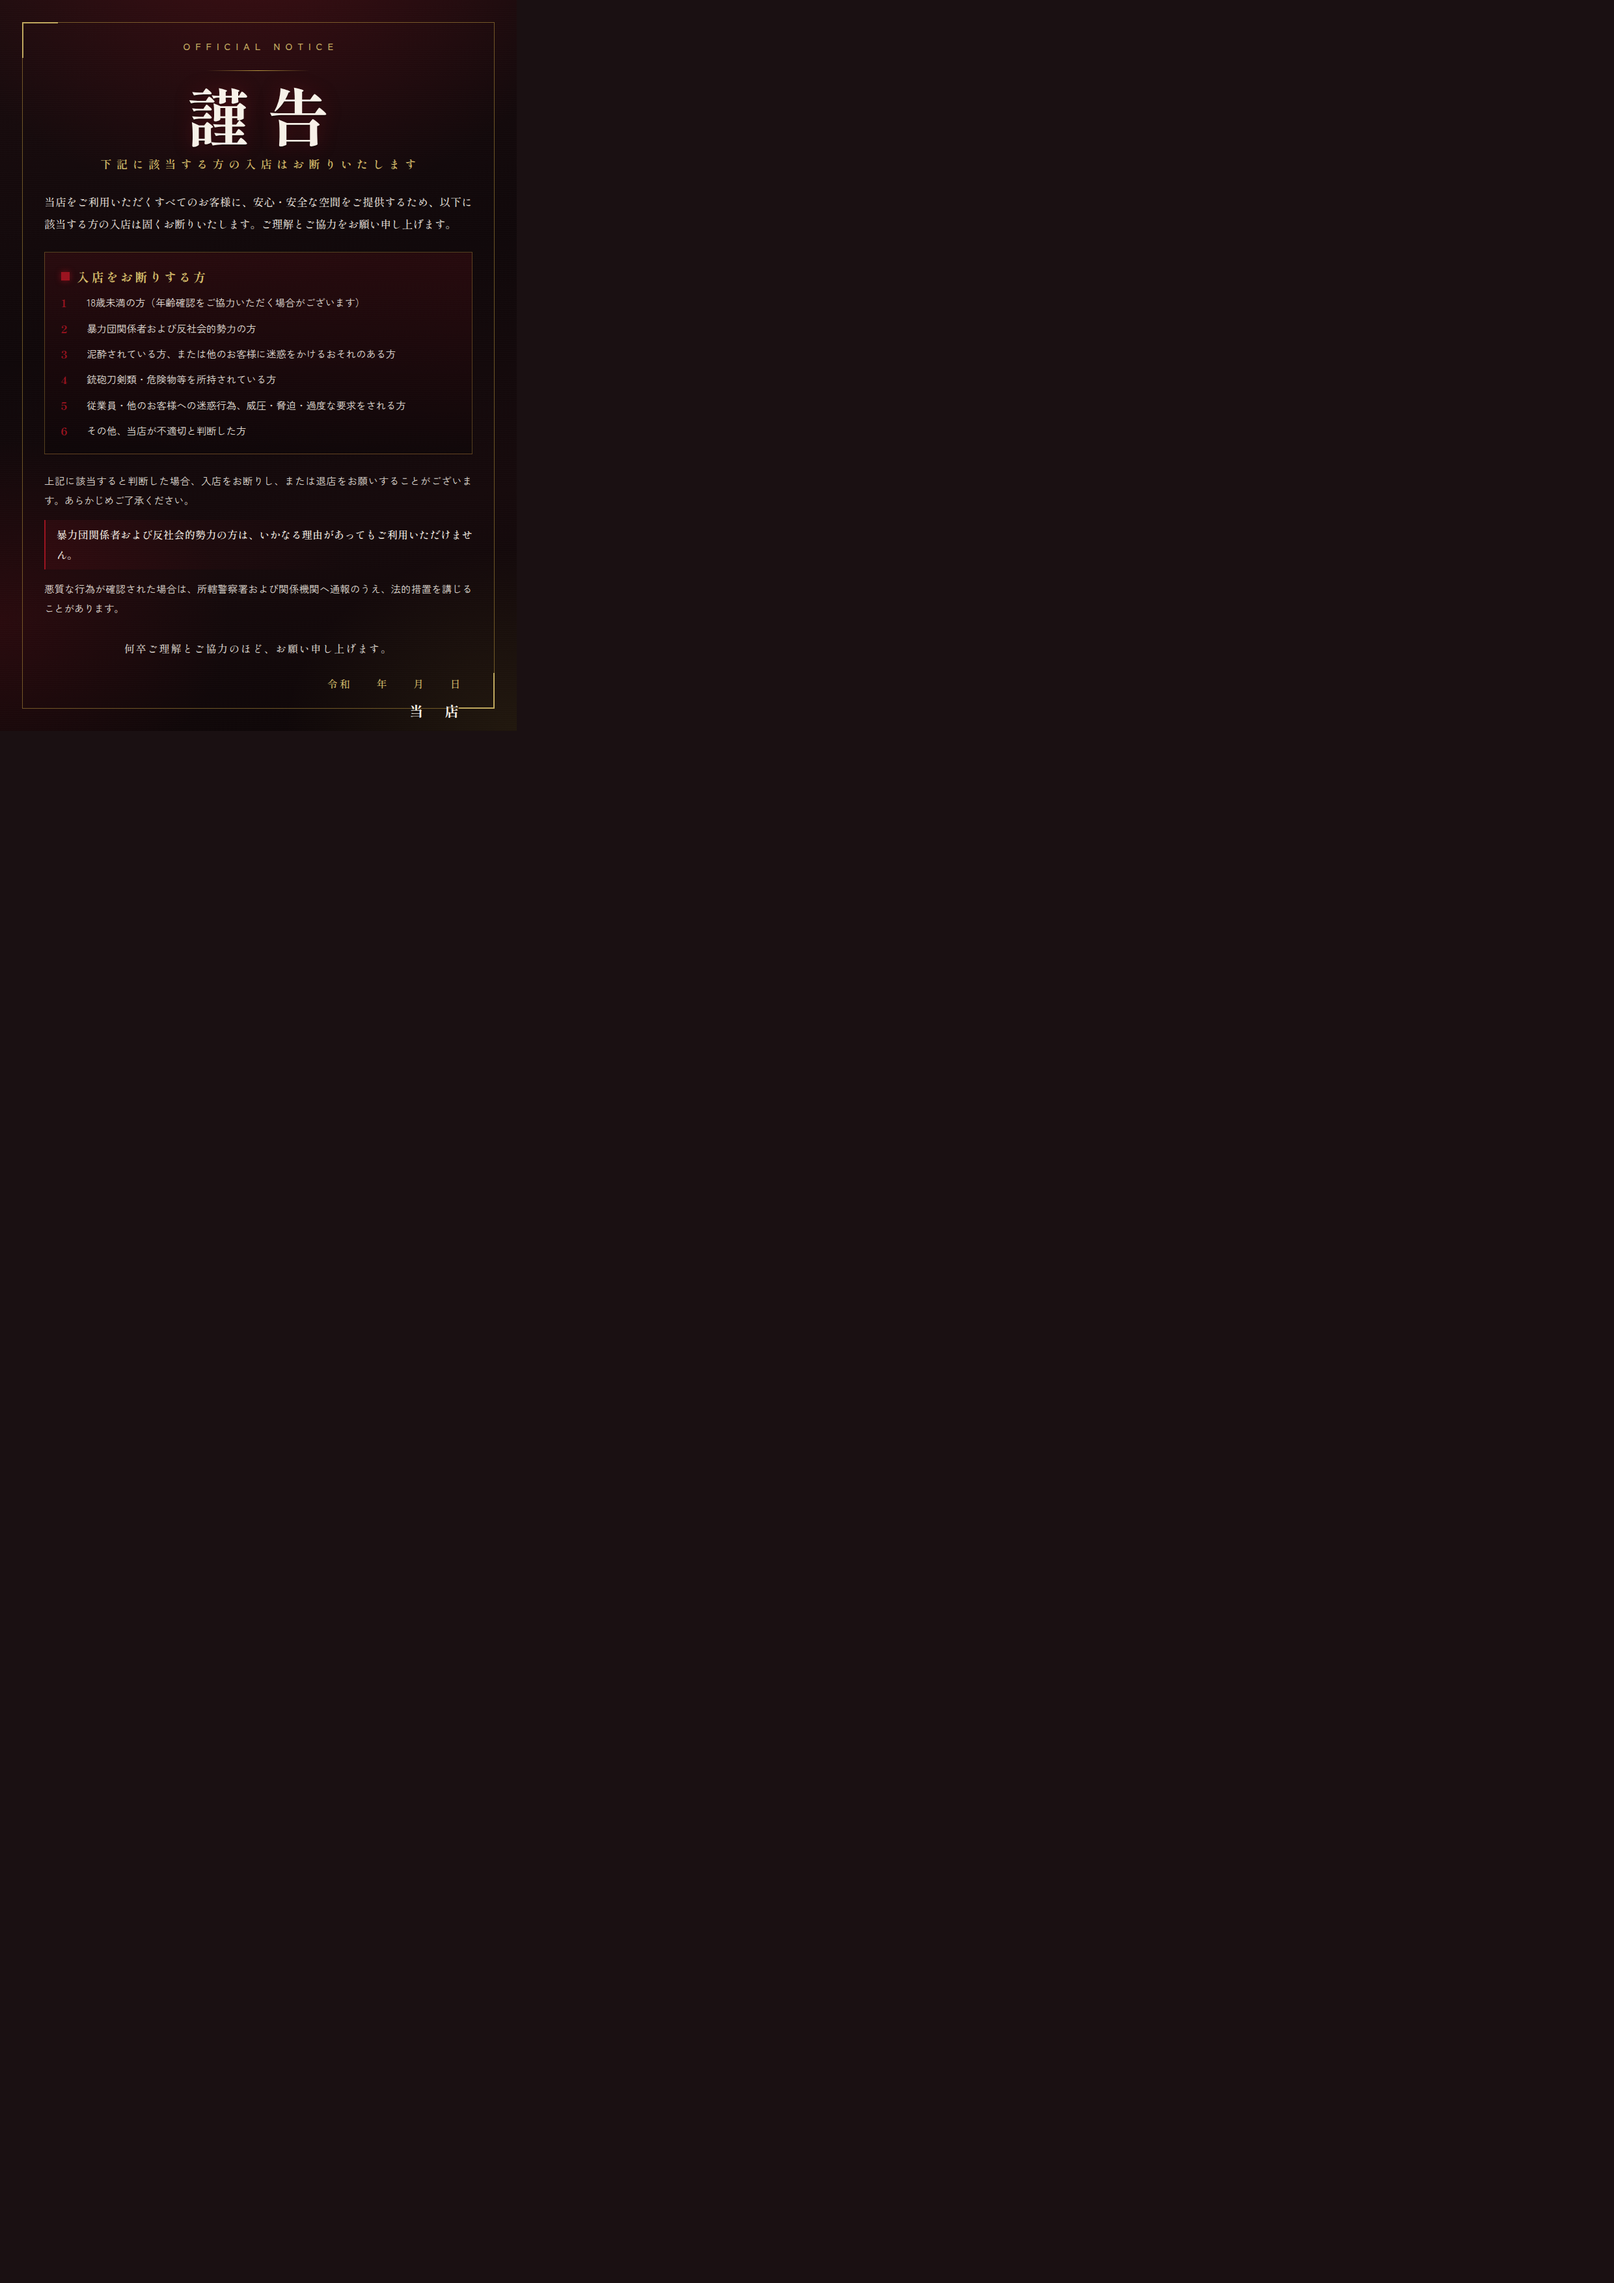
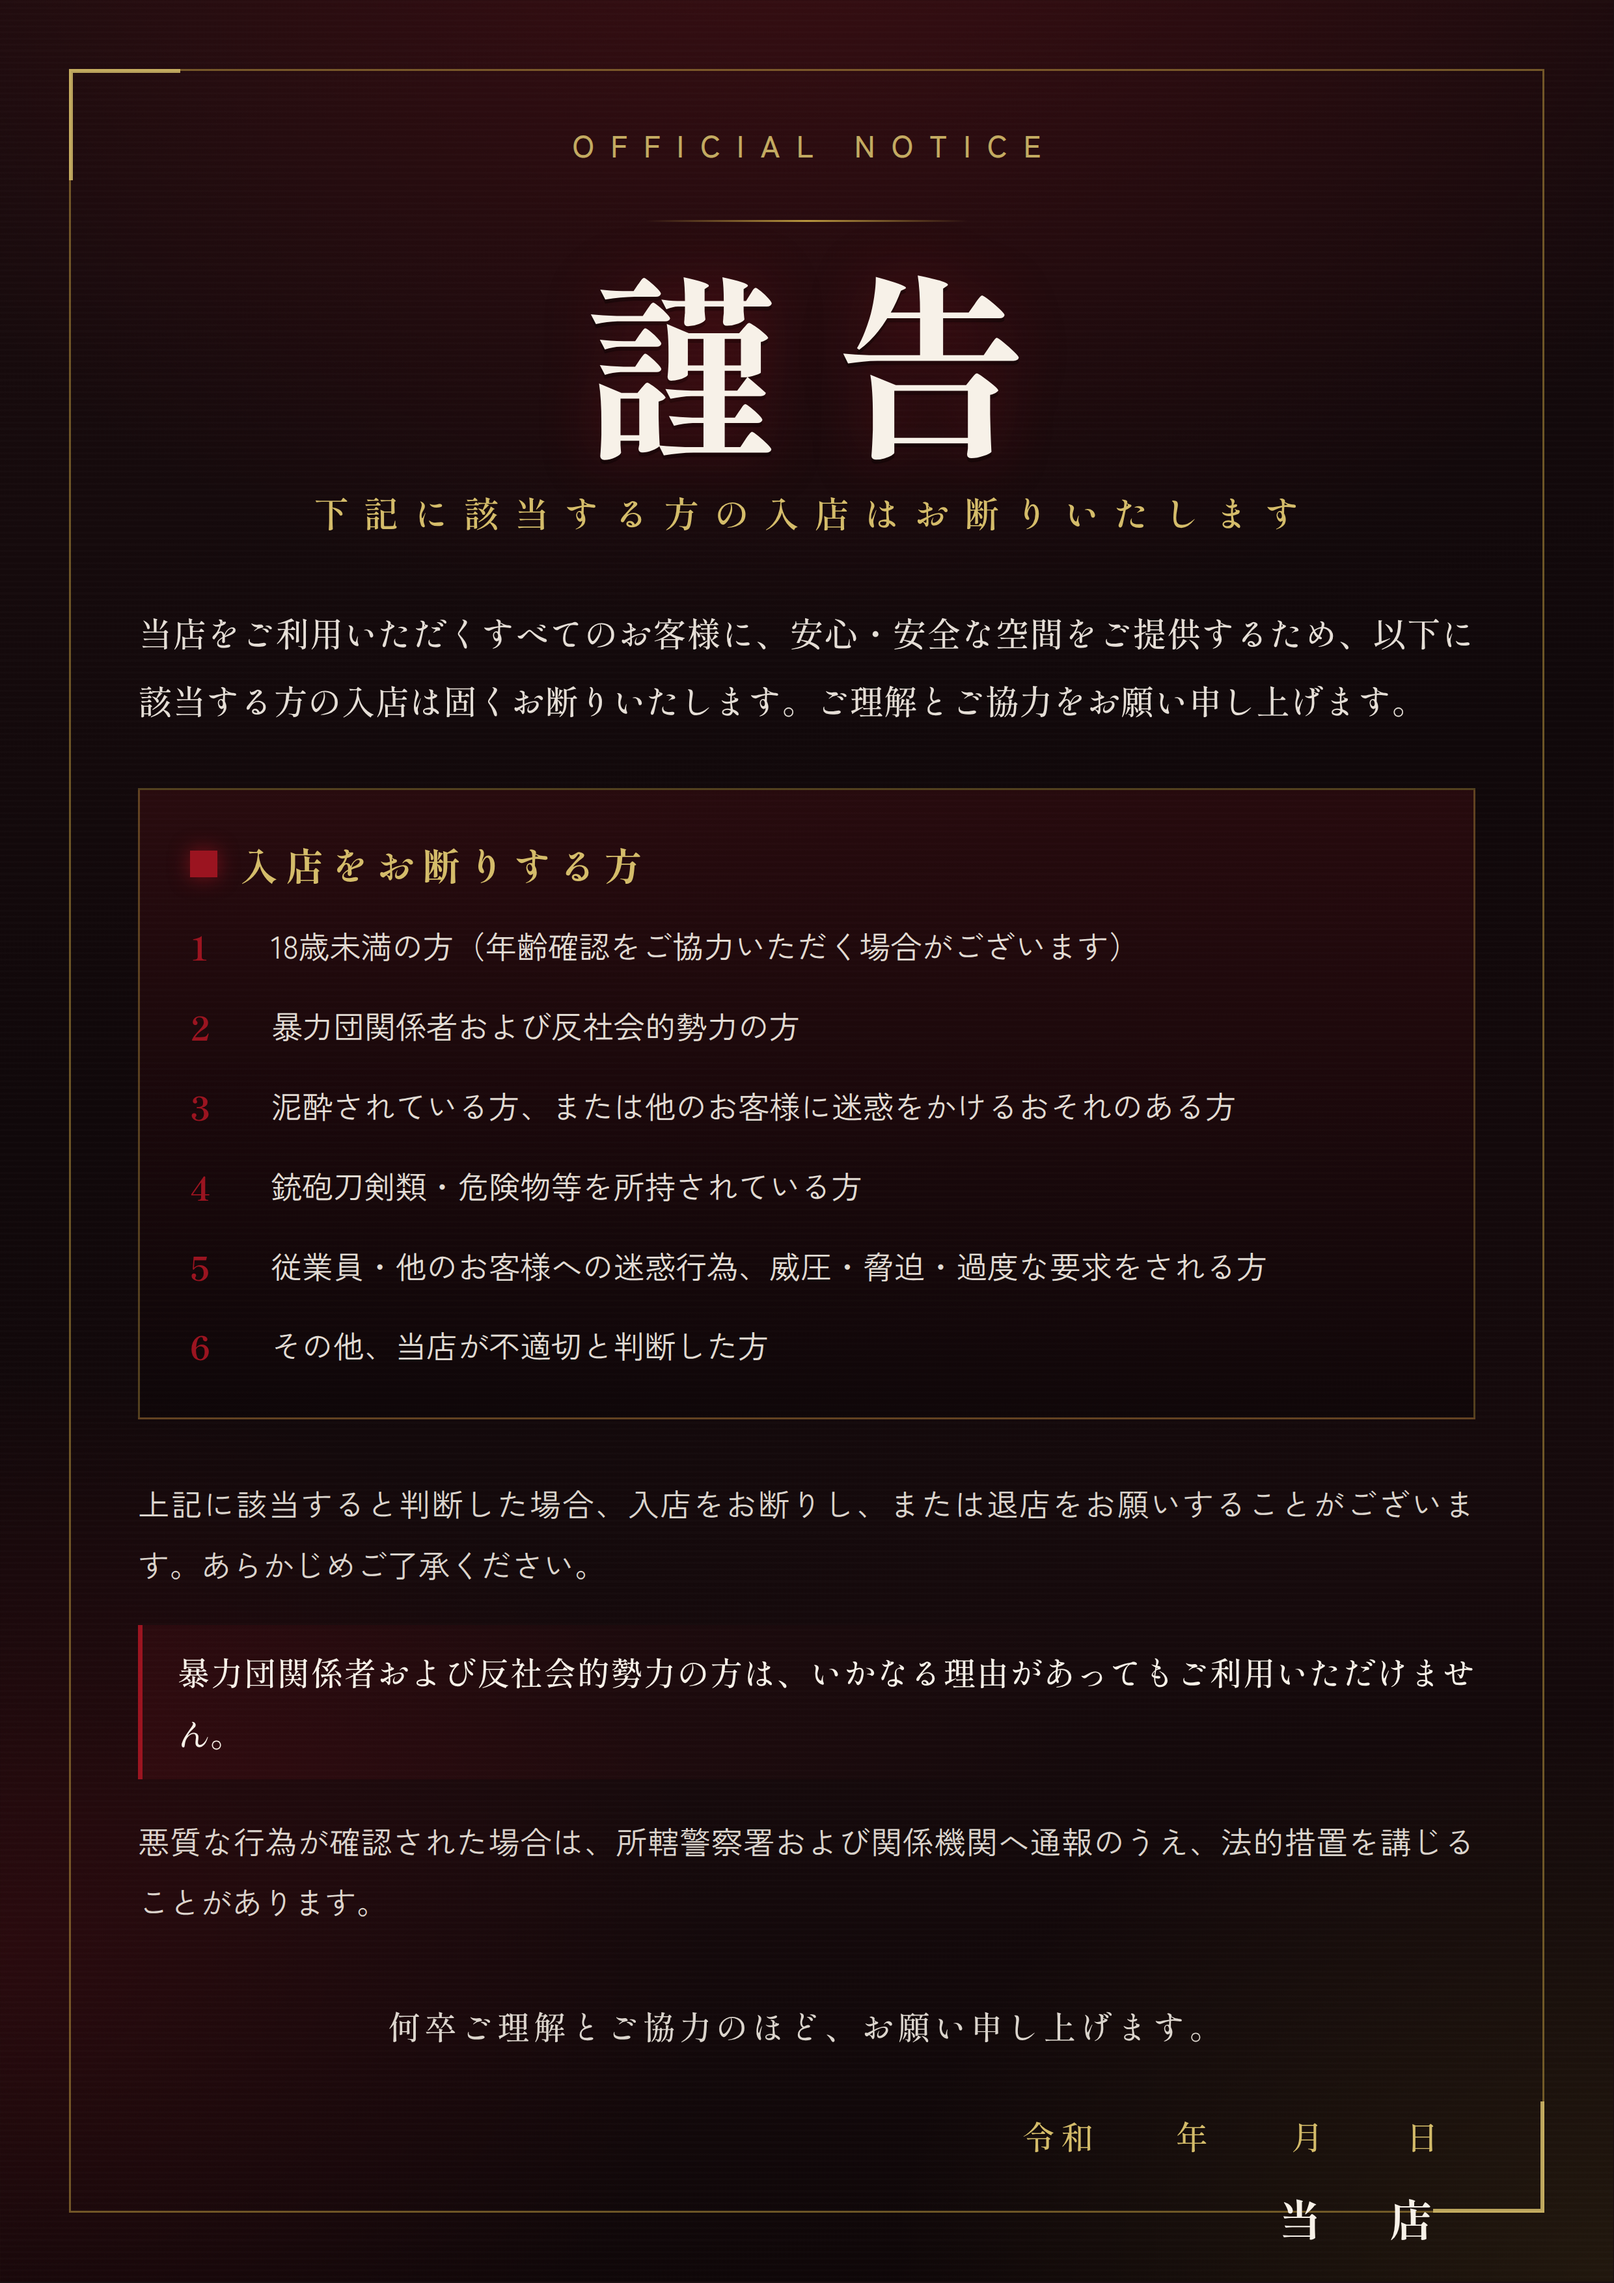
Fix A4 PNG export so flyer fills the full page
Chrome was capturing a ~794px CSS sheet inside a 2480px
canvas, which made the design look tiny. Render at correct
device scale so output is full-bleed A4 300dpi.

diff --git a/flyer/kinkoku/index.html b/flyer/kinkoku/index.html
@@ -29,12 +29,13 @@
     html, body {
       width: 210mm;
       height: 297mm;
+      margin: 0;
+      padding: 0;
+      overflow: hidden;
       background: #1a1012;
     }
 
     body {
-      display: grid;
-      place-items: center;
       -webkit-print-color-adjust: exact;
       print-color-adjust: exact;
     }

diff --git a/flyer/kinkoku/render_a4.py b/flyer/kinkoku/render_a4.py
@@ -1,5 +1,5 @@
 #!/usr/bin/env python3
-"""Render 謹告 A4 flyer to PNG (A4 @ 300dpi) via headless Chrome."""
+"""Render 謹告 A4 flyer to full-bleed PNG (A4 @ 300dpi)."""
 
 from __future__ import annotations
 
@@ -11,12 +11,36 @@ from pathlib import Path
 ROOT = Path(__file__).resolve().parent
 HTML = ROOT / "index.html"
 PNG = ROOT / "kinkoku-fuzoku-a4.png"
+TMP = ROOT / "kinkoku-fuzoku-a4.capture.png"
 
-# A4 @ 300dpi
+# CSS reference size for 210mm×297mm at 96dpi
+CSS_W = round(210 * 96 / 25.4)  # 794
+CSS_H = round(297 * 96 / 25.4)  # 1123
+
+# A4 @ 300dpi output
 A4_W = 2480
 A4_H = 3508
+SCALE = A4_W / CSS_W  # ~3.1234 → capture ~2480×3509
 
 CHROME = "/usr/local/bin/google-chrome"
+
+
+def kill_after_file(proc: subprocess.Popen, path: Path, timeout: float = 45) -> None:
+    deadline = time.time() + timeout
+    while time.time() < deadline:
+        if path.exists() and path.stat().st_size > 50_000:
+            time.sleep(0.8)
+            proc.kill()
+            break
+        if proc.poll() is not None:
+            break
+        time.sleep(0.2)
+    else:
+        proc.kill()
+    try:
+        proc.wait(timeout=10)
+    except subprocess.TimeoutExpired:
+        proc.kill()
 
 
 def main() -> int:
@@ -24,12 +48,13 @@ def main() -> int:
         print(f"Missing {HTML}", file=sys.stderr)
         return 1
 
+    for p in (PNG, TMP):
+        if p.exists():
+            p.unlink()
+
     url = HTML.as_uri()
     user_data = ROOT / ".chrome-userdata"
     user_data.mkdir(exist_ok=True)
-
-    # Allow Google Fonts a moment; virtual-time-budget also advances timers
-    time.sleep(0.5)
 
     cmd = [
         CHROME,
@@ -40,46 +65,67 @@ def main() -> int:
         "--allow-file-access-from-files",
         "--hide-scrollbars",
         f"--user-data-dir={user_data}",
-        "--virtual-time-budget=5000",
-        f"--window-size={A4_W},{A4_H}",
-        f"--screenshot={PNG}",
-        "--force-device-scale-factor=1",
+        "--virtual-time-budget=6000",
+        f"--window-size={CSS_W},{CSS_H}",
+        f"--force-device-scale-factor={SCALE:.6f}",
+        f"--screenshot={TMP}",
         url,
     ]
     print("+", " ".join(cmd))
-    # Chrome sometimes hangs after screenshot; kill after success window
     proc = subprocess.Popen(cmd, stdout=subprocess.PIPE, stderr=subprocess.PIPE)
-    deadline = time.time() + 45
-    while time.time() < deadline:
-        if PNG.exists() and PNG.stat().st_size > 50_000:
-            time.sleep(1.0)  # let write finish
-            proc.kill()
-            break
-        if proc.poll() is not None:
-            break
-        time.sleep(0.3)
-    else:
-        proc.kill()
+    kill_after_file(proc, TMP)
 
-    proc.wait(timeout=10)
-
-    if not PNG.exists():
-        print("PNG was not created", file=sys.stderr)
+    if not TMP.exists():
         err = (proc.stderr.read() if proc.stderr else b"").decode("utf-8", "replace")
+        print("PNG was not created", file=sys.stderr)
         print(err[-2000:], file=sys.stderr)
         return 1
 
-    try:
-        from PIL import Image
+    from PIL import Image
 
-        img = Image.open(PNG)
-        if img.size != (A4_W, A4_H):
-            img = img.resize((A4_W, A4_H), Image.Resampling.LANCZOS)
-            img.save(PNG, "PNG", optimize=True)
-        print(f"PNG created: {PNG} ({img.size[0]}x{img.size[1]})")
-    except Exception as e:
-        print(f"PNG created: {PNG} (size normalize skipped: {e})")
+    img = Image.open(TMP).convert("RGB")
+    print(f"capture size: {img.size}")
 
+    # Safety: if Chrome still left letterboxing, crop to non-empty content
+    def is_bg(px):
+        r, g, b = px
+        return r < 40 and g < 30 and b < 30
+
+    w, h = img.size
+    pixels = img.load()
+    minx, miny, maxx, maxy = w, h, 0, 0
+    step = 3
+    for y in range(0, h, step):
+        for x in range(0, w, step):
+            if not is_bg(pixels[x, y]):
+                minx = min(minx, x)
+                miny = min(miny, y)
+                maxx = max(maxx, x)
+                maxy = max(maxy, y)
+
+    content_w = maxx - minx
+    content_h = maxy - miny
+    fill = (content_w / w) * (content_h / h)
+    print(f"content bbox: {(minx, miny, maxx, maxy)} fill≈{fill:.2%}")
+
+    if fill < 0.85:
+        # Expand bbox a bit and crop — flyer was letterboxed
+        pad = 2
+        box = (
+            max(0, minx - pad),
+            max(0, miny - pad),
+            min(w, maxx + pad + 1),
+            min(h, maxy + pad + 1),
+        )
+        img = img.crop(box)
+        print(f"cropped to: {img.size}")
+
+    if img.size != (A4_W, A4_H):
+        img = img.resize((A4_W, A4_H), Image.Resampling.LANCZOS)
+
+    img.save(PNG, "PNG", optimize=True)
+    TMP.unlink(missing_ok=True)
+    print(f"PNG created: {PNG} ({A4_W}x{A4_H})")
     return 0
 
 
